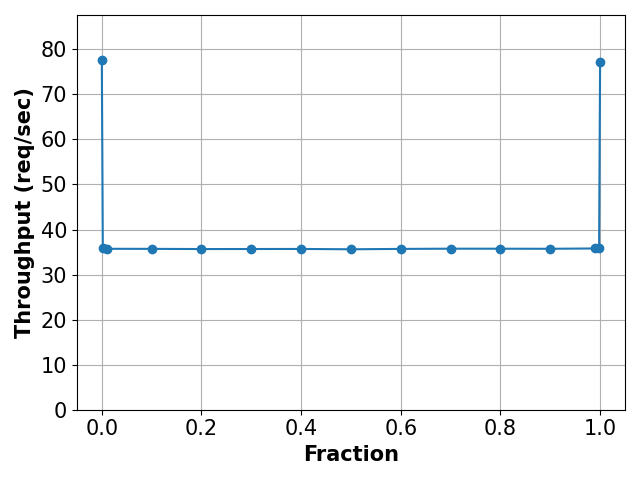
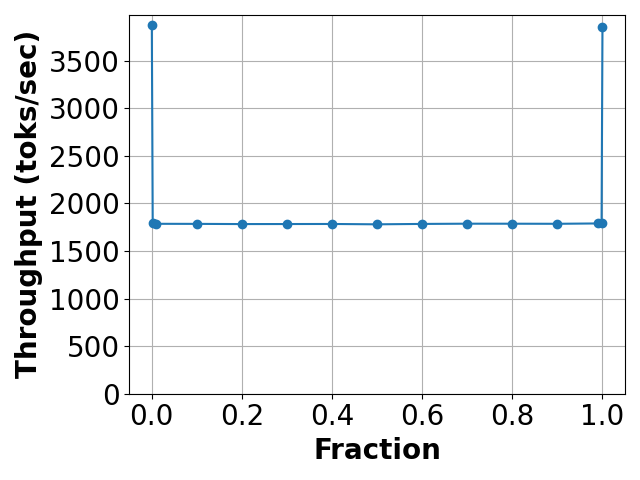
two-fam-plots

diff --git a/code/vllm/two_family_dcgmi_logs/read.py b/code/vllm/two_family_dcgmi_logs/read.py
@@ -43,17 +43,17 @@ for frac in fractions:
     if len(group) != iters_per_fraction:
         break
     avg_duration = sum(group) / len(group)
-    avg_durations.append(500/avg_duration)
+    avg_durations.append((500/avg_duration)*50)
     idx += iters_per_fraction
 
 # Plot
 plt.figure()
 plt.plot(fractions[:len(avg_durations)], avg_durations, marker='o')
-plt.xlabel("Fraction", fontweight="bold", fontsize=15)
-plt.ylabel("Throughput (req/sec)", fontweight="bold", fontsize=15)
-plt.xticks(fontsize=15)
-plt.yticks(fontsize=15)
-plt.ylim(0, max(avg_durations) + 10)
+plt.xlabel("Fraction", fontweight="bold", fontsize=20)
+plt.ylabel("Throughput (toks/sec)", fontweight="bold", fontsize=20)
+plt.xticks(fontsize=20)
+plt.yticks(fontsize=20)
+plt.ylim(0, max(avg_durations) + 100)
 plt.tight_layout()
 plt.grid(True)
 # plt.title("Average Scheduler Duration vs Fraction")
